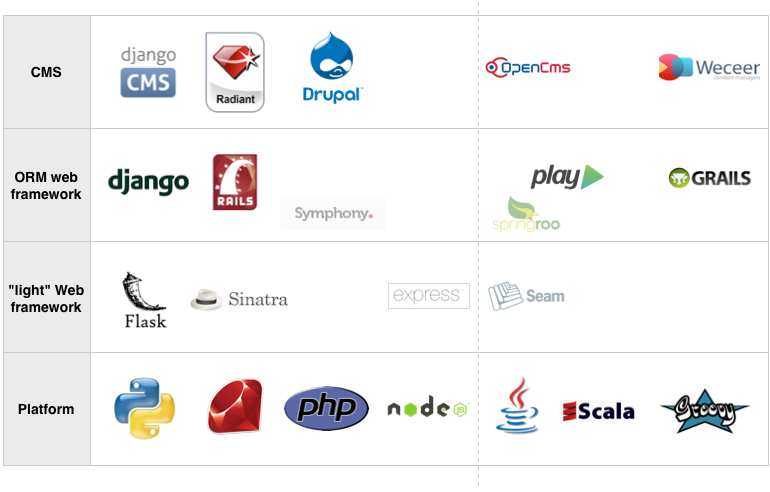
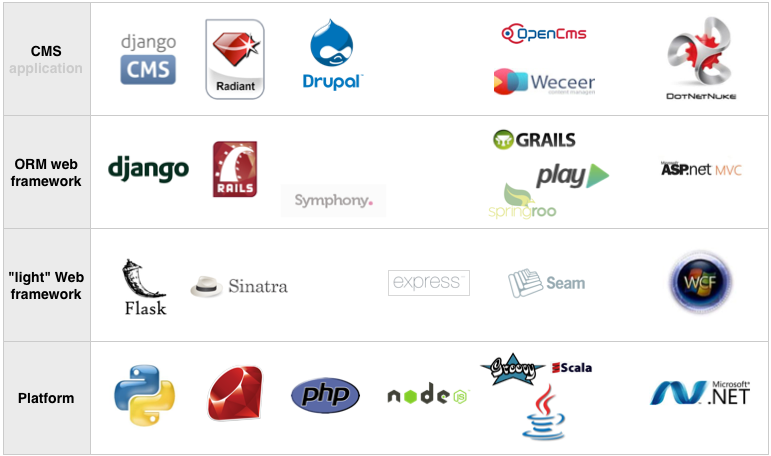
removed how good is django, added .net

diff --git a/django.css b/django.css
@@ -99,3 +99,11 @@ div#django-not-good img {
 div#django-security img {
    float: right;
 }
+
+div#magical-django img {
+   float: right;
+}
+
+div#programming img {
+  
+}

diff --git a/django-highlevel.rst b/django-highlevel.rst
@@ -21,7 +21,7 @@ What is Django
 
 *"Django is a high-level Python Web framework that encourages rapid development and clean, pragmatic design"*
 
-- From rapid prototyping framework...
+- From **rapid prototyping** application...
 - ... to **maintainable** large scale projects
 - OpenSource project with **active community**
 - Really **well documented** framework
@@ -32,7 +32,8 @@ What is Django
 
    - Django is not new, project started in 2004
 	- Can start working with really few knowledge of python
-
+	- django + jython --> run on as J2EE servlet --> It's a war!
+	
 ----
 
 Web frameworks
@@ -43,11 +44,29 @@ Web frameworks
 .. note::
 
 	- Django has already a built-in user / group model
+	- Play framework... play on both java / scala side
 	- CMS have built-in mode for pages / group / glogs / ...
 	- JBoss Seam is not really a lightweigth framework.
-	- ASP.NET / I dunno
-	
+	- Weeceer --> grails
+	- openCms --> java servlet
+
+
 ----
+
+:id: good-django
+
+Django - J2EE stack
+===================
+
+
+- **Application server** vs **Web framework** in the cloud battleground
+	- **Operate all** and use what your need or...
+	- ... operate only what you **use**
+
+----
+
+:id: django-users
+
 
 Who is using Django
 ===================
@@ -61,29 +80,8 @@ Who is using Django
 - The Guardian (guardian.co.uk)
 - The Washington Post (washingtonpost.com)
 - Pinterest
-- exodoc / exopoint (comming soon)
+- exodoc
 - **... many many more ...**
-
-----
-
-:id: good-django
-
-How "good" is django
-====================
-
-
-**Single machine, Intel Core i7 32Gb RAM**
-
-.. image:: img/good_django.png
-	:height: 250px
-
-- Running **24 / 7**
-- **600'000** visitors / day
-- **500'000** hits / hour
-- **1'000** concurrent users
-- **240** concurrent requests 
-
-http://stackoverflow.com/questions/886221/does-django-scale
 
 ----
 
@@ -101,35 +99,57 @@ Where django is not so "good"
 - **NoSQL** database support is tricky (becoming better)
 - Single page web application (by design)
 
-
 ----
+
+:id: magical-django 
+
 
 Django is not a magical wand
 ============================
 
+.. image:: img/magical_pony.png
+	:height: 250px
+
+
 - Take care of your **database design**
 - Choose the "right" packages
-- Avoid doing "heavy" work on a http request
+- **Web architecture** knowledge
 - Careful with **caching**
-- **HTML** and **CSS** knowledge required...
-- ... and **javascript** to enhance your pages
+- **HTML** and **CSS** knowledge
 
 .. note::
 	
-	- What is heavy work? 20ms?
+	- Web architecture / http / network / sockets / DNS
+	- Request time and mesurment
+	- Redis / database / file / objectstore
+	- No built in support for javascript.
 
 ----
 
+Should I use django?
+====================
 
-Django project structure
-========================
-
-.. image:: img/project.png
-	:width: 800px
+- **Yes** but...
+- Do I need an **ORM**?
+- **Multiple Page** vs **Single Page** web application?
+- Do I only need **Web service** (REST/SOAP/RPC) access?
+- **No** if you don't like Python!
 
 .. note::
-	- The goal of this slide is to understand modularity and reut
+	- using only ORM with rest framework is not bad.... but
+	- Single page application not suited for django.
+	- SOAP service not well supported as server.
 	
+----
+
+Overall Philosophy
+==================
+
+- **MTV** Model Template View
+- **Loose coupling**, each layer should't "know" about each other
+- **DRY** *Don't repeat yourself*
+- **Explicit** over **implicit**
+
 ----
 
 Supported databases
@@ -146,14 +166,16 @@ Django is database **agnostic**, but your project should **not**
 
 -----
 
-Overall Philosophy
-==================
+Django project structure
+========================
 
-- **MTV** Model Template View
-- **Loose coupling**, each layer should't "know" about each other
-- **DRY** *Don't repeat yourself*
-- **Explicit** over **implicit**
+.. image:: img/project.png
+	:width: 800px
 
+.. note::
+	- The goal of this slide is to understand modularity and reusability
+	- Assembly of applications
+	
 ----
 
 Components
@@ -176,14 +198,13 @@ Other extensible components
 ===========================
 
 - Admin portal
-- Command line tools
-- HTTP(s) middleware 
+- Authentication
+- HTTP(s) middleware
 - Database specific fields support
 - Template tags
 - Database router (cluster / load balancer)
-- File storage (static / dynamic / S3)
+- File storage (locate / S3 )
 - Database migration tool (South)
-- Fields / Widgets
 - ...
 
 .. note:: 
@@ -193,19 +214,7 @@ Other extensible components
 
 ----
 
-First experience with django
-============================
-
-- Easy newbie member ramp up
-	- **loose coupling** between layers
-	- Simple HTML template
-
-- Explicit code writing and patterns
-	- Only **one way** to do something
-	- **Repeatable** pattern
-
-----
-
+:id: programming
 
 Programing language
 ===================
@@ -217,27 +226,15 @@ Programing language
 * ... but templates are mostly web pages 
 
 .. image:: img/html_css.jpeg
-
-
+	:height: 200px
+	
+	
 .. note::
 	- Only a Little knowledge of python is required to start working with django
 	- no XML for configuration
 	- no YAML, .cfg etc.. settings are in python
 	- use environment variable to configure
-
-
-----
-
-:id: django-tools
-
-
-Tools to work with django
-=========================
-
-* Any text editor with python syntax highlighting (vi, emacs) + shell
-* JetBRAINS PyCharm
-* PyDev eclipse (good luck)
-* Wing IDE why not?
+	- Javascript / Sass / Less / jquery / angularjs / ....
 
 ----
 
@@ -297,7 +294,22 @@ Security
 	- http://ponycheckup.com/
 
 
+
 ----
+
+First experience with django
+============================
+
+- Easy newbie member ramp up
+	- **loose coupling** between layers
+	- Simple HTML template
+
+- Explicit code writing and patterns
+	- Only **one way** to do something
+	- **Repeatable** pattern
+
+----
+
 
 Simple deployment
 =================
